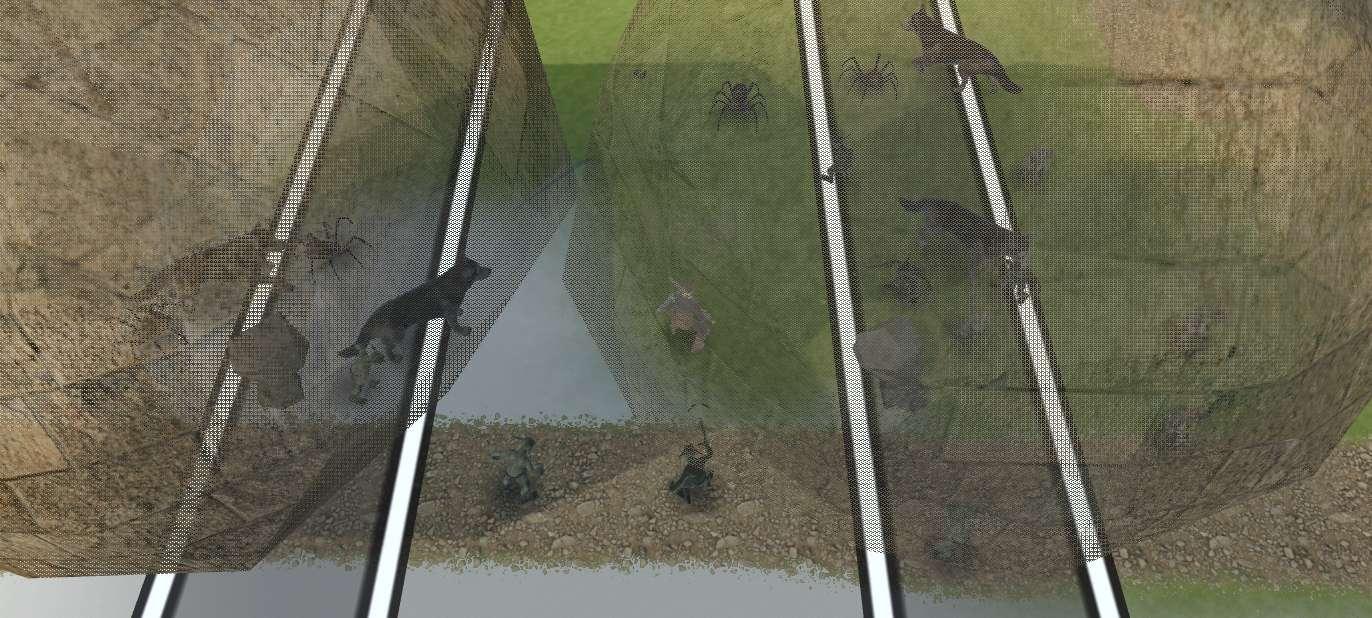
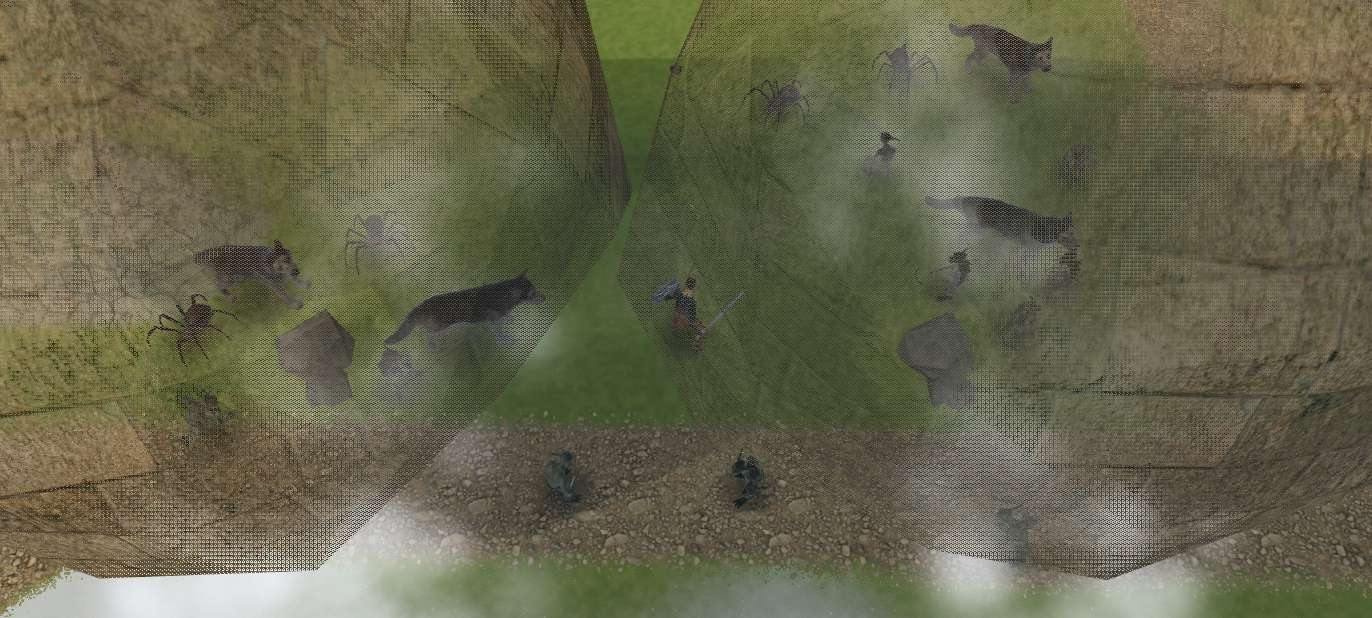
Act VII: the two fights draw the camera back (the zones' fight rows through the sun's sky easing)

diff --git a/skotos/src/game/world.js b/skotos/src/game/world.js
@@ -28,7 +28,7 @@ import { PACKS, DIFFS, MONSTERS, PACK_LEAD, packKinds, HAZ5, monsterDmg, COOP } 
 import { NET, heroes } from '../net/state.js';
 import { startDrips, stopDrips } from './sap.js';
 import { addLightPool, removeLightPool, cradlePoint, addBeam, removeBeam, getLightPool, getBeam, snuffLamp, fireEnter, namesTick, lampBonus } from './light.js';
-import { sunEnter, sunTick } from './sun7.js';
+import { sunEnter, sunTick, sunAtmos } from './sun7.js';
 import { resetTide, floodWave } from './tide.js';
 import { resetIce, freezeCells, crackCone } from './ice.js';
 import { startFlues, stopFlues, setFlueHeat, flues, BREATH, vaultEnter } from './forge.js';
@@ -2321,6 +2321,10 @@ function dress7(z) {
   for (const it of A.lookouts) { it.mesh = by(P.lookouts, it.k + off) || by(P.lookouts, it.k); it.mesh?.userData.setRank?.(R7[it.k + off - 1] || 0); }
   for (const c of P.cornices || []) c.mesh?.userData.setArmed?.(true);
 }
+// (the two fights draw the camera back a little, the zone's fight row, and give it back when they rest: the shade's ease
+// goes on from the row in force, sun7.js sunAtmos)
+on('bossIntro', (a) => { const z = G.zone; if (z?.act7 && (a?.kind === 'kallisto' || a?.kind === 'kelados')) sunAtmos(z, z.id + 'Fight'); });
+on('bossRest', () => { if (G.zone?.act7) sunAtmos(G.zone, null); });
 on('weir7', (it) => { it.mesh?.userData.setOpen?.(true, true); });
 on('winch7', (it) => { it.mesh?.userData.setIce?.(0); it.mesh?.userData.setTurn?.(1); });
 on('chuteSpent', (f) => { const c = G.zone?.lvl?.act7?.cornices?.find((q) => q.k === f.i); c?.mesh?.userData.setArmed?.(false); c?.tongue?.userData.setK?.(1); });
